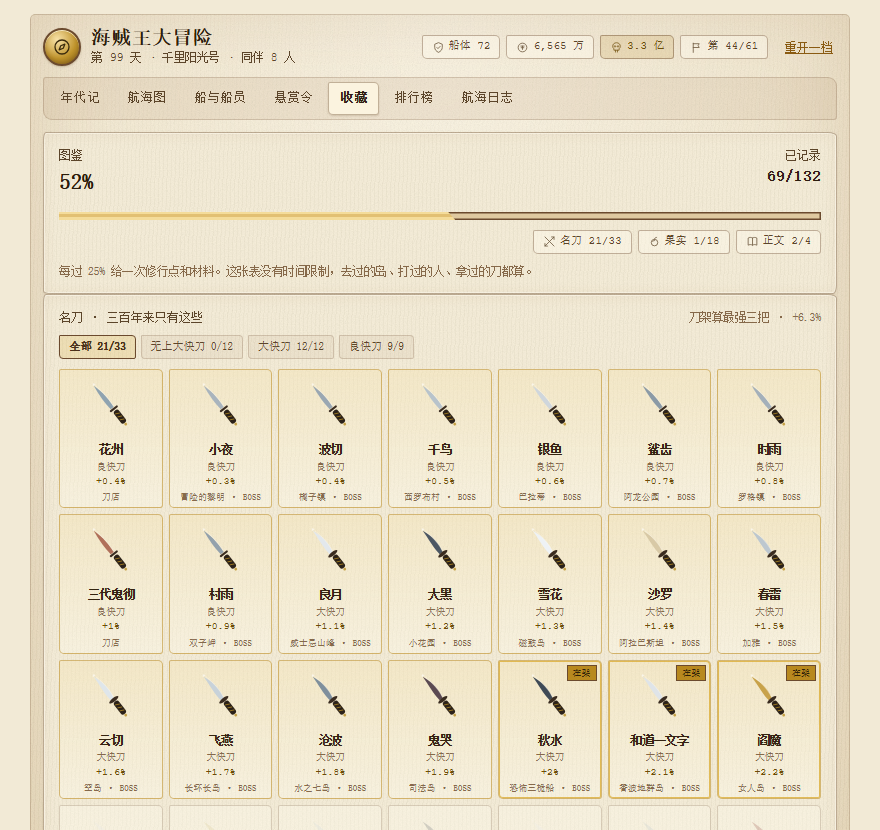
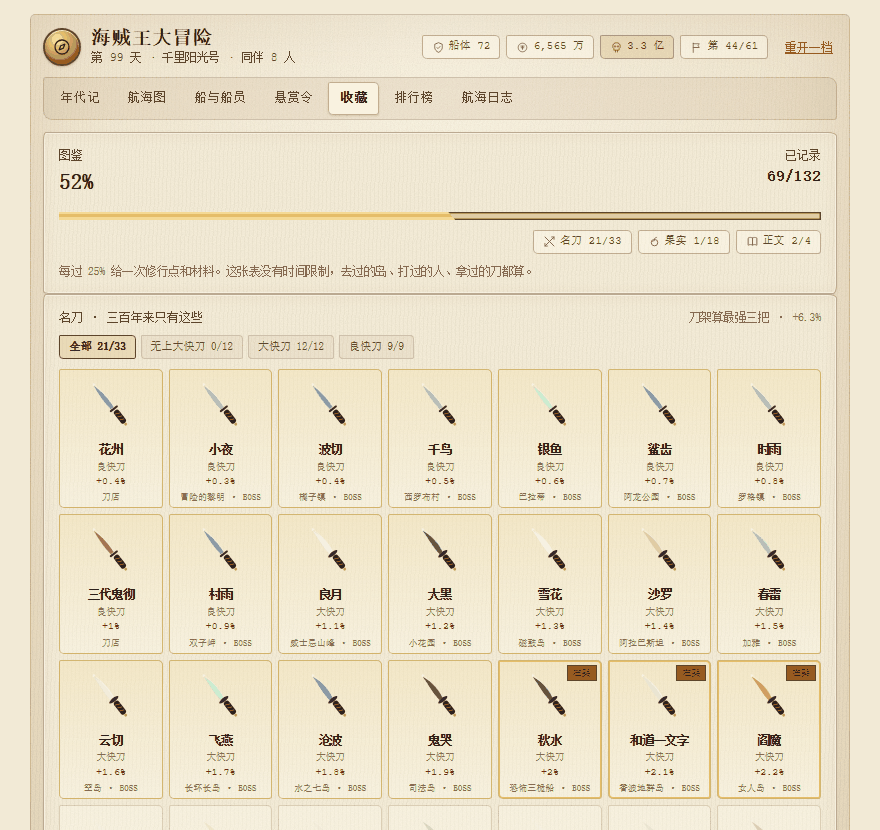
0.12.4：市场补 5 张配图（压缩到 1.4MB）

diff --git a/CHANGELOG.md b/CHANGELOG.md
@@ -1,5 +1,13 @@
 # CHANGELOG
 
+## 0.12.4
+
+没有代码改动，补市场配图。
+
+- 这个插件在市场里一直是 0 张图，列表和详情页都是空白。现在把 `docs/screenshots/` 里的 5 张（悬赏令、剧情、图鉴、船坞、航海图）接进 `cortico.screenshots`。
+- 顺手把 5 张图从 2.9MB 压到 1.4MB（256 色量化，无抖动，文字和小图标没有损失），否则光配图就让包大两倍。
+- `files` 里加 `docs/screenshots`，只带截图，不带 docs 下的设计文档。
+
 ## 0.12.3
 
 没有代码改动，简介末尾加 QQ 交流群 745879632（中英两版）。
